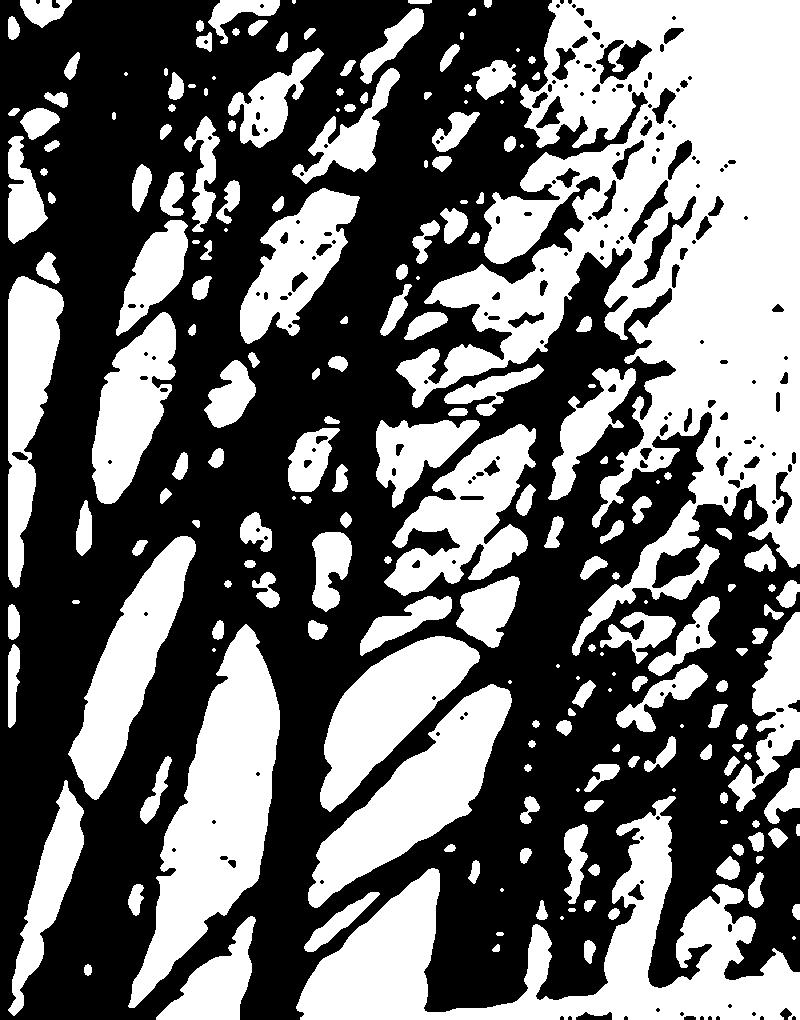
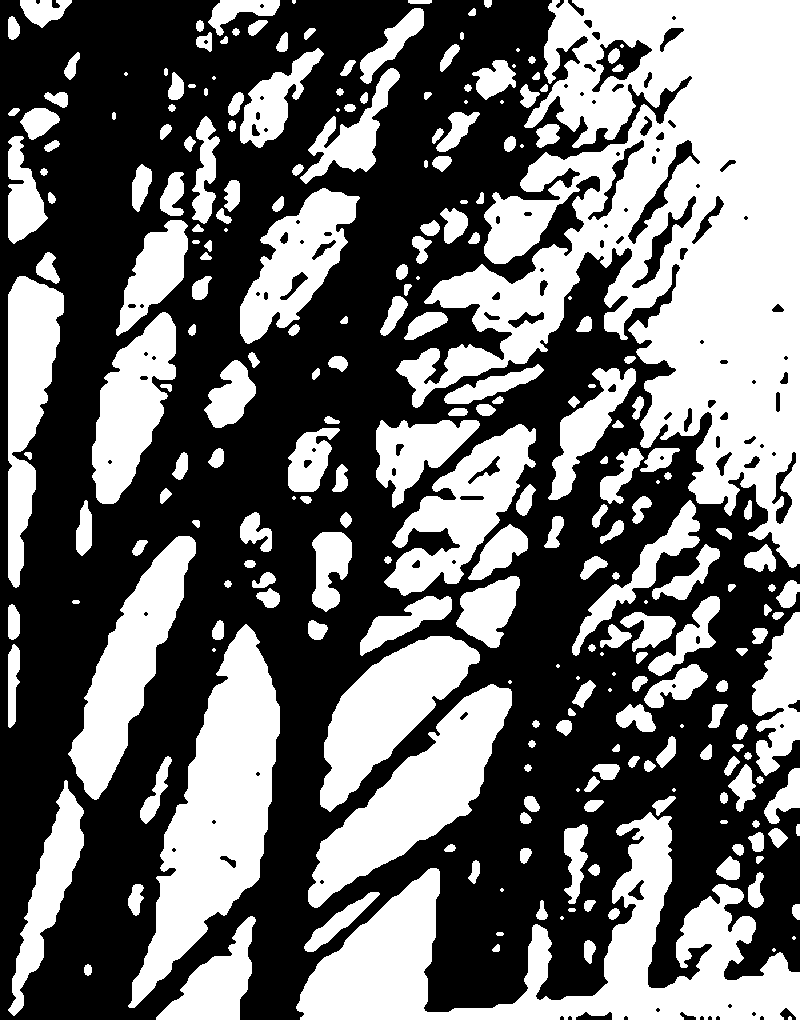
Changed to GPL license

diff --git a/topology_smoothing.py b/topology_smoothing.py
@@ -853,7 +853,7 @@ def binarize_image(img: np.ndarray, threshold: Optional[float] = None) -> np.nda
 def topology_preserving_smooth(
     img: np.ndarray,
     scale: int = 4,
-    smooth_radius: int = 3,
+    smooth_radius: int = 5,
     connex: int = 8,
     threshold: Optional[float] = None,
     use_medial: bool = True
@@ -893,7 +893,7 @@ def main():
     parser.add_argument("input", help="Input image file")
     parser.add_argument("output", help="Output smoothed image file")
     parser.add_argument("-s", "--scale", type=int, default=4)
-    parser.add_argument("-r", "--radius", type=int, default=3)
+    parser.add_argument("-r", "--radius", type=int, default=5)
     parser.add_argument("-c", "--connex", type=int, choices=[4, 8], default=8)
     parser.add_argument("-t", "--threshold", type=float, default=None)
     parser.add_argument("--save-binary", type=str, default=None)

diff --git a/README.md b/README.md
@@ -6,7 +6,7 @@ A Python implementation of the Alternate Sequential Filter controlled by Topolog
 
 | Original | Smoothed (ASFT-MED) | Smoothed (ASFT) |
 |:--------:|:-------------------:|:---------------:|
-| <img src="img/einstein_original.png" height="300"> | <img src="img/einstein_smoothed.png" height="300"> | <img src="img/einstein_smoothed_ASFT_pure.png" height="300"> |
+| <img src="img/einstein_original.png" height="300"> | <img src="img/einstein_smoothed_r10.png" height="300"> | <img src="img/einstein_smoothed_ASFT_pure.png" height="300"> |
 
 *Smoothed with: `-s 1 -r 3 -c 4 --medial`* for ASFT-MED and with the same parameters for the pure ASFT.
 
@@ -17,7 +17,7 @@ The algorithm smooths jagged boundaries while **preserving topology** - all conn
 ### Example 1: Complex Structure
 | Input | Output |
 |:-----:|:------:|
-| <img src="img/input_1.png" width="300"> | <img src="img/output_1.png" width="300"> |
+| <img src="img/input_1.png" width="300"> | <img src="img/output_1_r10.png" width="300"> |
 
 ### Example 2: Simple Shape (Connectivity Comparison)
 | Input | Output (C8) | Output (C4) |
@@ -75,11 +75,11 @@ python topology_smoothing.py input.pgm output.pgm -s 1 -r 3 -c 4
 # With all options
 python topology_smoothing.py input.jpg output.png \
     -s 1           # Scale factor (default: 4, use 1 to match input dimensions)
-    -r 3           # Maximum smoothing radius (default: 3)
-    -c 4           # Connectivity: 4 (neighbor) or 8 (next-neighbour)
-    -t 128         # Binarization threshold (default: mean intensity)
-    --medial       # Use medial axis constraints (default, recommended)
-    --no-medial    # Use plain ASFT without medial axis constraints
+    -r 5           # Maximum smoothing radius (default: 5)
+    -c 4           # Connectivity for white value (1): 4 (neighbor) or 8 (next-neighbour)
+    -t 128         # Binarization threshold (default: mean intensity, if the input is not binary)
+    --medial       # Use medial axis constraints - strictly preserves the form (default, recommended)
+    --no-medial    # Use plain ASFT without medial axis constraints (removes small features)
     --save-binary binary.png  # Save the binarized input image
 ```
 
@@ -95,7 +95,7 @@ img = load_image('input.png')
 smoothed, binary = topology_preserving_smooth(
     img,
     scale=1,           # Scale factor (1 = no scaling, matches C)
-    smooth_radius=3,   # Maximum ASFT radius
+    smooth_radius=5,   # Maximum ASFT radius
     connex=4,          # Object connectivity (4 or 8)
     threshold=None,    # Binarization threshold (None = mean)
     use_medial=True    # Use medial axis constraints (recommended)
@@ -109,11 +109,11 @@ Image.fromarray(smoothed).save('output.pgm')   # PGM
 
 ## Parameters
 
-- **scale**: Integer scaling factor. The image is upscaled before smoothing to allow sub-pixel smoothing. Use `scale=1` to match the original image dimensions.
+- **scale**: Integer scaling factor. The image is upscaled before smoothing to allow sub-pixel smoothing with respect to original pixel size. Use `scale=1` to match the original image dimensions.
 
-- **smooth_radius (rmax)**: Maximum radius of disk structuring elements. The algorithm applies opening/closing operations with disks of radius 1, 2, ..., rmax. Larger values produce smoother results but take longer.
+- **smooth_radius (rmax)**: Maximum radius of disk structuring elements. The algorithm applies opening/closing operations with disks of radius 1, 2, ..., rmax. Larger values produce smoother results but take longer (linear complexity with rmax), but the default value rmax=5 produces already very good results.
 
-- **connex**: Object connectivity (4 or 8). For 8-connectivity, diagonal neighbors (white pixels) are considered connected.
+- **connex**: Object connectivity (4 or 8). For 8-connectivity, diagonal neighbors (white pixels, value=1) are considered connected.
 
 - **threshold**: Binarization threshold. Pixels above this value become foreground (255), others become background (0). If None, uses the mean intensity.
 
@@ -151,13 +151,13 @@ Standard ASFT without constraints. May lose very thin features.
 ## Performance
 
 - With numba installed: ~1-2 seconds for a 520×372 image with scale=1, radius=3
-- Without numba: Much slower (not recommended for large images)
+- Without numba: Much slower (not recommended for large images), do not use without numba.
 
 The algorithm scales roughly as O(scale² × rmax × width × height).
 
 ## Validation
 
-The Python implementation produces **pixel-perfect results** matching the [C implementation](https://perso.esiee.fr/~coupriem/ts/TS_programs.html).
+The Python implementation produces **pixel-perfect results** matching the [C implementation](https://perso.esiee.fr/~coupriem/ts/TS_programs.html) for Einstein's binary portrait.
 
 ```bash
 # C version
@@ -165,14 +165,7 @@ The Python implementation produces **pixel-perfect results** matching the [C imp
 
 # Python version
 python topology_smoothing.py test/einstein.pgm py_output.pgm -s 1 -r 3 -c 4
-
-# Result: 0 pixels different (100% match)
 ```
-
-Tested with:
-- `test/einstein.pgm` (520×372 pixels)
-- Connectivity: 4 and 8
-- Radius: 1-5
 
 ## Test Shapes
 
@@ -200,6 +193,8 @@ Results are saved to `test_results/` folder, including `all_tests_overview.png` 
 
 ### Information
 
-**Author:** Claude Opus 4.5 in Cursor environment
+**Authors:** Claude Opus 4.5 in Cursor environment (mainly), Vladislav A. Yastrebov (marginally)
 **Validator:** Vladislav A. Yastrebov (CNRS, Mines Paris)
+**License:** GPL-2.0
 **Date:** Nov-Dec 2025
+
